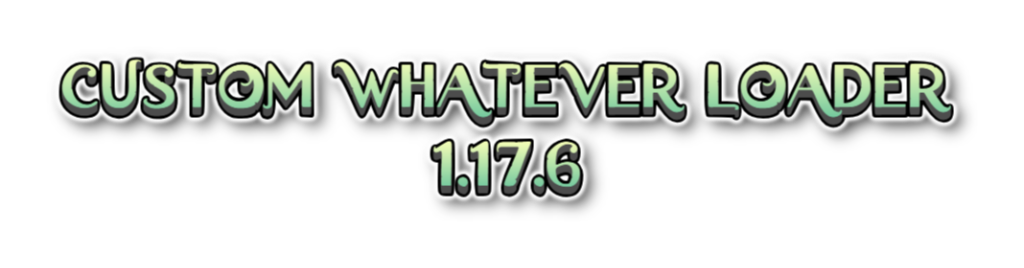
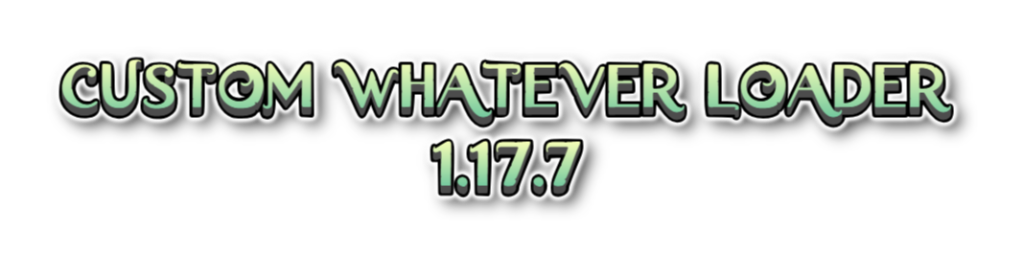
feat(CWL): mod integrity check

diff --git a/CustomWhateverLoader/API/Custom/CustomChara.cs b/CustomWhateverLoader/API/Custom/CustomChara.cs
@@ -149,10 +149,10 @@ public class CustomChara : Chara
                     }
 
                     var listAdv = game.cards.listAdv;
-                    var duplicate = game.cards.globalCharas.Values.FirstOrDefault(c => c.id == id);
+                    var duplicate = game.cards.globalCharas.Find(id);
                     if (duplicate is not null) {
                         if (import.Type == ImportType.Adventurer) {
-                            if (listAdv.FirstOrDefault(c => c.id == id) is not null) {
+                            if (listAdv.Find(c => c.id == id) is not null) {
                                 CwlMod.Log("cwl_log_skipped_adv".Loc(id));
                                 // regression as of 1.16.5
                                 if (duplicate.homeZone is Zone_Dungeon) {
@@ -182,9 +182,9 @@ public class CustomChara : Chara
                     var zones = game.spatials.map.Values
                         .OfType<Zone>()
                         .ToArray();
-                    var homeZone = zones.FirstOrDefault(z => z is not Zone_Dungeon &&
-                                                             z.GetType().Name.Split("_")[^1] == import.Zone) ??
-                                   zones.Where(z => z.CanSpawnAdv).RandomItem();
+                    var homeZone = Array.Find(zones, z => z is not Zone_Dungeon &&
+                                                          z.GetType().Name.Split("_")[^1] == import.Zone) ??
+                                   Array.FindAll(zones, z => z.CanSpawnAdv).RandomItem();
 
                     chara.SetHomeZone(homeZone);
                     chara.global.transition = new() {

diff --git a/CustomWhateverLoader/Patches/ModIntegrityCheck.cs b/CustomWhateverLoader/Patches/ModIntegrityCheck.cs
@@ -1,0 +1,53 @@
+using System;
+using System.Linq;
+using Cwl.API;
+using Cwl.API.Processors;
+using Cwl.Helper.Unity;
+using Cwl.LangMod;
+using HarmonyLib;
+
+namespace Cwl.Patches;
+
+[HarmonyPatch]
+internal class ModIntegrityCheck
+{
+    private static SerializableModPackage[] CurrentActivated => BaseModManager.Instance.packages
+        .Where(p => p.activated && !p.builtin)
+        .Select(p => new SerializableModPackage {
+            modName = p.title,
+            modId = p.id,
+        })
+        .ToArray();
+
+    internal static void Prepare()
+    {
+        GameIOProcessor.AddLoad(CheckModList, true);
+        GameIOProcessor.AddSave(SaveModList, true);
+    }
+
+    private static void CheckModList(GameIOProcessor.GameIOContext context)
+    {
+        if (!context.Load<SerializableModPackage[]>(out var mods, "active_mods") || mods is null) {
+            return;
+        }
+
+        var missing = mods.Except(CurrentActivated).ToArray();
+        if (missing.Length == 0) {
+            return;
+        }
+
+        CoroutineHelper.Deferred(
+            () => Dialog.YesNo(
+                "cwl_warn_missing_mods".Loc(missing.Join(m => $"{m.modName}, {m.modId}", Environment.NewLine)),
+                () => EClass.scene.Init(Scene.Mode.Title),
+                null,
+                "cwl_warn_missing_mods_yes",
+                "cwl_warn_missing_mods_no"),
+            () => EClass.core.IsGameStarted);
+    }
+
+    private static void SaveModList(GameIOProcessor.GameIOContext context)
+    {
+        context.Save(CurrentActivated, "active_mods");
+    }
+}

diff --git a/CustomWhateverLoader/API/Processors/GameIOProcessor.cs b/CustomWhateverLoader/API/Processors/GameIOProcessor.cs
@@ -1,5 +1,7 @@
 using System;
 using System.IO;
+using Cwl.Helper.FileUtil;
+using Cwl.Helper.String;
 using Cwl.LangMod;
 
 namespace Cwl.API.Processors;
@@ -105,7 +107,9 @@ public class GameIOProcessor
             chunkName ??= $"{type.Assembly.GetName().Name}.{type.FullName ?? type.Name}";
 
             var file = Path.Combine(path, Storage, $"{chunkName}.{Extension}");
-            IO.SaveFile(file, data, GameIO.compressSave, GameIO.jsWriteGame);
+            ConfigCereal.WriteConfig(data, file);
+
+            CwlMod.Log($"save chunk {file.ShortPath()}");
         }
 
         /// <summary>
@@ -120,9 +124,9 @@ public class GameIOProcessor
             chunkName ??= $"{type.Assembly.GetName().Name}.{type.FullName ?? type.Name}";
 
             var file = Path.Combine(path, Storage, $"{chunkName}.{Extension}");
-            inferred = File.Exists(file)
-                ? IO.LoadFile<T>(file, GameIO.compressSave, GameIO.jsReadGame)
-                : default;
+            ConfigCereal.ReadConfig(file, out inferred);
+
+            CwlMod.Log($"load chunk {file.ShortPath()}");
             return inferred is not null;
         }
     }

diff --git a/CustomWhateverLoader/Patches/Sources/NamedImportPatch.cs b/CustomWhateverLoader/Patches/Sources/NamedImportPatch.cs
@@ -3,7 +3,6 @@ using System.Collections.Generic;
 using System.Linq;
 using System.Reflection;
 using System.Reflection.Emit;
-using BepInEx;
 using Cwl.API;
 using Cwl.Helper.Runtime;
 using HarmonyLib;
@@ -102,7 +101,7 @@ internal class NamedImportPatch
         try {
             if (!_cached.TryGetValue(sheet, out var header)) {
                 header = sheet.GetRow(sheet.FirstRowNum).Cells
-                    .Where(c => !c.StringCellValue.IsNullOrWhiteSpace())
+                    .Where(c => !c.StringCellValue.IsEmpty())
                     .Select(c => new MigrateDetail.HeaderCell(c.ColumnIndex, c.StringCellValue.Trim()))
                     .ToList();
 

diff --git a/CustomWhateverLoader/Helper/Runtime/TypeQualifier.cs b/CustomWhateverLoader/Helper/Runtime/TypeQualifier.cs
@@ -18,7 +18,7 @@ public class TypeQualifier
     public static Type? TryQualify<T>(params string[] unqualified) where T : EClass
     {
         foreach (var unq in unqualified) {
-            if (unq is null or "") {
+            if (unq.IsEmpty()) {
                 continue;
             }
 
@@ -53,7 +53,7 @@ public class TypeQualifier
     }
 
     // cannot use linq to query due to some users might install mod without dependency...sigh
-    internal static void SafeQueryTypes<T>() where T : EClass
+    internal static void SafeQueryTypes<T>() where T : notnull
     {
         Plugins ??= Resources.FindObjectsOfTypeAll<BaseUnityPlugin>().ToList();
 

diff --git a/CustomWhateverLoader/Loader/CwlDebug.cs b/CustomWhateverLoader/Loader/CwlDebug.cs
@@ -2,15 +2,14 @@
 global using SwallowExceptions.Fody;
 #endif
 
-using System;
+#if DEBUG
 using Cwl.ThirdParty;
 using UnityEngine;
+using System;
 
 namespace Cwl;
 
-#if DEBUG
 internal class SwallowExceptions : Attribute;
-#endif
 
 internal partial class CwlMod
 {
@@ -27,7 +26,8 @@ internal partial class CwlMod
             return;
         }
 
-        if (message is null or "" || stackTrace is null or "") {
+        if (message.IsEmpty() || stackTrace.IsEmpty()) {
         }
     }
 }
+#endif

diff --git a/CustomWhateverLoader/Patches/Traits/SafeCreateTraitPatch.cs b/CustomWhateverLoader/Patches/Traits/SafeCreateTraitPatch.cs
@@ -57,7 +57,7 @@ internal class SafeCreateTraitPatch
                 throw new SourceParseException("cwl_error_qualify_type");
             }
 
-            ClassCache.caches.dict[unqualified] = () => Activator.CreateInstance(qualified);
+            ClassCache.caches.dict[unqualified] = () => Activator.CreateInstance(qualified, false);
             trait = ClassCache.caches.dict[unqualified]() as Trait;
 
             if (_qualifiedTraits.Add(qualified.FullName)) {

diff --git a/CustomWhateverLoader/Loader/CwlStartTask.cs b/CustomWhateverLoader/Loader/CwlStartTask.cs
@@ -74,11 +74,15 @@ internal sealed partial class CwlMod
             return;
         }
 
+        // sources
         TypeQualifier.SafeQueryTypes<Element>();
         TypeQualifier.SafeQueryTypes<BaseCondition>();
         TypeQualifier.SafeQueryTypes<Trait>();
         TypeQualifier.SafeQueryTypes<Quest>();
         TypeQualifier.SafeQueryTypes<Zone>();
+
+        // extensions
+        TypeQualifier.SafeQueryTypes<DramaOutcome>();
     }
 
     [Time]

diff --git a/CustomWhateverLoader/Patches/Sources/SourceInitPatch.cs b/CustomWhateverLoader/Patches/Sources/SourceInitPatch.cs
@@ -44,8 +44,7 @@ internal class SourceInitPatch
                 try {
                     CwlMod.Log("cwl_log_workbook".Loc(import.ShortPath()));
 
-                    WorkbookImporter
-                        .BySheetName(import)
+                    WorkbookImporter.BySheetName(import)
                         .OfType<SourceData>()
                         .Do(s => dirty.Add(s));
                 } catch (Exception ex) {

diff --git a/CustomWhateverLoader/Helper/Runtime/CachedMethods.cs b/CustomWhateverLoader/Helper/Runtime/CachedMethods.cs
@@ -10,7 +10,7 @@ public static class CachedMethods
 {
     private static readonly Dictionary<TypeInfo, MethodInfo[]> _cached = [];
 
-    public static IEnumerable<MethodInfo> GetCachedMethods(this TypeInfo type)
+    public static MethodInfo[] GetCachedMethods(this TypeInfo type)
     {
         if (_cached.TryGetValue(type, out var methods)) {
             return methods;

diff --git a/CustomWhateverLoader/Loader/CustomWhateverLoader.cs b/CustomWhateverLoader/Loader/CustomWhateverLoader.cs
@@ -9,7 +9,7 @@ public static class ModInfo
     // for legacy reason
     public const string Guid = "dk.elinplugins.customdialogloader";
     public const string Name = "Custom Whatever Loader";
-    public const string Version = "1.17.6";
+    public const string Version = "1.17.7";
 }
 
 [BepInPlugin(ModInfo.Guid, ModInfo.Name, ModInfo.Version)]

diff --git a/CustomWhateverLoader/Patches/Relocation/LoadDialogPatch.cs b/CustomWhateverLoader/Patches/Relocation/LoadDialogPatch.cs
@@ -47,7 +47,7 @@ internal class LoadDialogPatch
         foreach (var cache in _cached) {
             cache.BuildMap(sheetName);
             foreach (var (topic, cells) in cache.sheets[sheetName].map) {
-                if (topic is null or "") {
+                if (topic.IsEmpty()) {
                     continue;
                 }
 
